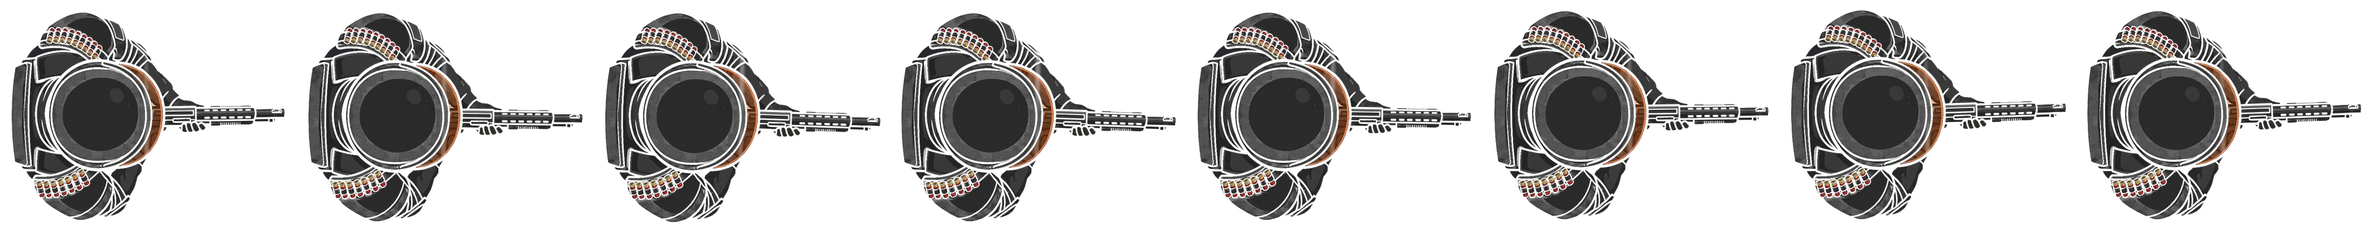
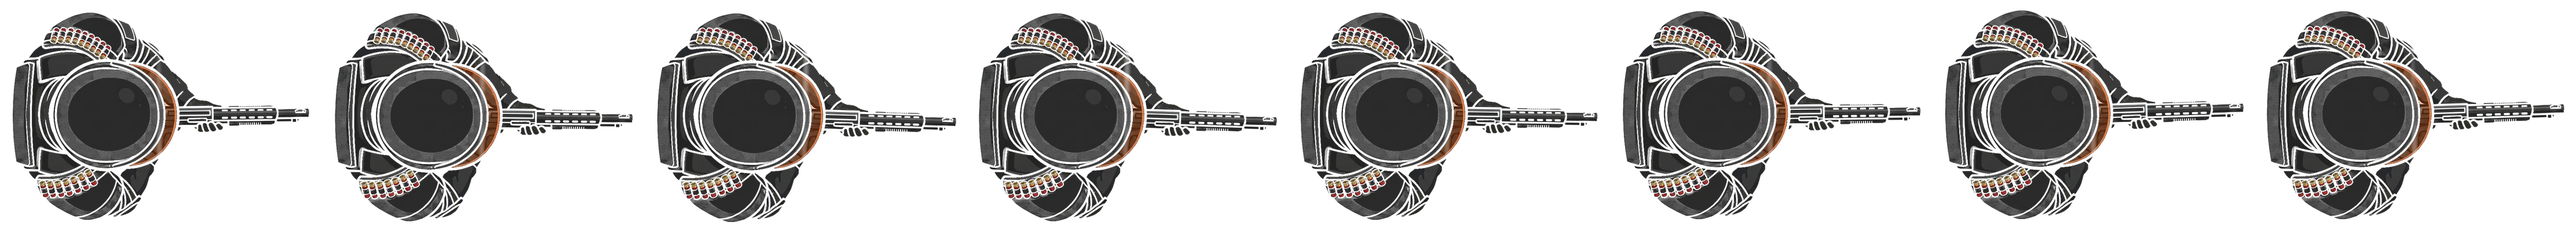
update animation

diff --git a/src/graphics/animation/CharacterAnimController.ts b/src/graphics/animation/CharacterAnimController.ts
@@ -73,6 +73,8 @@ export class CharacterAnimController {
 
   triggerHit() {
     if (!this.sheets.hit) return;
+    // Let the clip finish — retriggering during contact damage was pinning frame 0 red.
+    if (this.hitActive) return;
     this.hitActive = true;
     this.hitTime = 0;
   }
@@ -186,23 +188,26 @@ export class CharacterAnimController {
       const clip = hit.meta.clips[0];
       const adv = advanceClip(clip, this.hitTime, 0);
       this.drawWalkFrame(ctx, drawSize, angle, cx, cy);
-      ctx.save();
-      ctx.globalAlpha = adv.frame < 2 ? 0.55 : 0.25;
-      drawSheetFrame(
-        ctx,
-        hit.image,
-        adv.frame,
-        hit.meta.frame_width,
-        hit.meta.frame_height,
-        0,
-        pivotSimple(hit.meta, walk.meta),
-        drawSize,
-        refW,
-        angle,
-        cx,
-        cy
-      );
-      ctx.restore();
+      // Pack note: only early frames are the red flash; last frame is untinted — never overlay it.
+      if (adv.frame < 2) {
+        ctx.save();
+        ctx.globalAlpha = adv.frame === 0 ? 0.42 : 0.28;
+        drawSheetFrame(
+          ctx,
+          hit.image,
+          adv.frame,
+          hit.meta.frame_width,
+          hit.meta.frame_height,
+          0,
+          pivotSimple(hit.meta, walk.meta),
+          drawSize,
+          refW,
+          angle,
+          cx,
+          cy
+        );
+        ctx.restore();
+      }
       return;
     }
 

diff --git a/src/core/Game.ts b/src/core/Game.ts
@@ -189,6 +189,8 @@ export class Game {
   private blasts: { x: number; y: number; age: number }[] = [];
   private dryFireCooldown = new Map<number, number>();
   private hitSoundCooldown = new Map<number, number>();
+  /** Sprite hit flash — slower than bite SFX so grapples don't stay red-tinted. */
+  private playerHitAnimCooldown = new Map<number, number>();
   private readonly runModifier: SectorModifierId;
   private readonly layoutRand: () => number;
   private readonly netRole: 'local' | 'host' | 'guest' = 'local';
@@ -893,6 +895,8 @@ export class Game {
         if (this.tryConsumeCooldown(this.hitSoundCooldown, player.id, 0.4)) {
           this.sound.playPlayerHit(this.p1.position, player.position);
           this.triggerPlayerHitJuice(false);
+        }
+        if (this.tryConsumeCooldown(this.playerHitAnimCooldown, player.id, 1)) {
           this.animForPlayer(player)?.triggerHit();
         }
         if (player.health <= 0) {

diff --git a/src/graphics/animation/sheetTypes.ts b/src/graphics/animation/sheetTypes.ts
@@ -13,7 +13,7 @@ export interface WalkSheetMeta {
   layout: 'row';
   stride_steps?: number;
   footfall_frames?: number[];
-  pivots_cell_px: { torso: [number, number]; grip?: [number, number] };
+  pivots_cell_px: { torso: [number, number]; grip?: [number, number]; part?: [number, number] };
   steps_per_s?: number;
 }
 

diff --git a/eslint.config.js b/eslint.config.js
@@ -22,6 +22,7 @@ export default tseslint.config(
       'walk_rig.js',
       'downed_rig.js',
       '.tmp_anim_pack/',
+      '.tmp_anim_pack_v2/',
     ]
   },
   js.configs.recommended,
